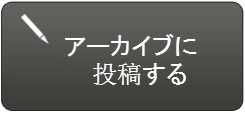
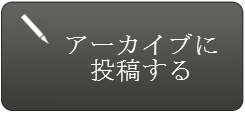
button images and sizing fixed

Changed region(s): [[0.2571, 0.2895, 0.8857, 0.5], [0.3714, 0.5, 0.7714, 0.7632]]

diff --git a/web/css/jda.css b/web/css/jda.css
@@ -482,9 +482,11 @@ background-color:#444;position:relative;top:76px;color:whiteSmoke;padding-top:10
 }
 
 #intro-nav{
-	margin-left: 22%;
 	margin-top: 5%;
 	padding-bottom: 260px;
+	width:1000px;
+	margin-left:auto;
+	margin-right:auto;
 	
 }
 
@@ -498,9 +500,9 @@ background-color:#444;position:relative;top:76px;color:whiteSmoke;padding-top:10
 	float: left;
 	outline: none;
 	cursor: pointer;
-	width: 20%;
-	height: 110px;
-	margin-right: 80px;
+	width: 25%;
+	margin-right: 40px;
+	margin-left:40px;
 	color: #ffffff;
 }
 
